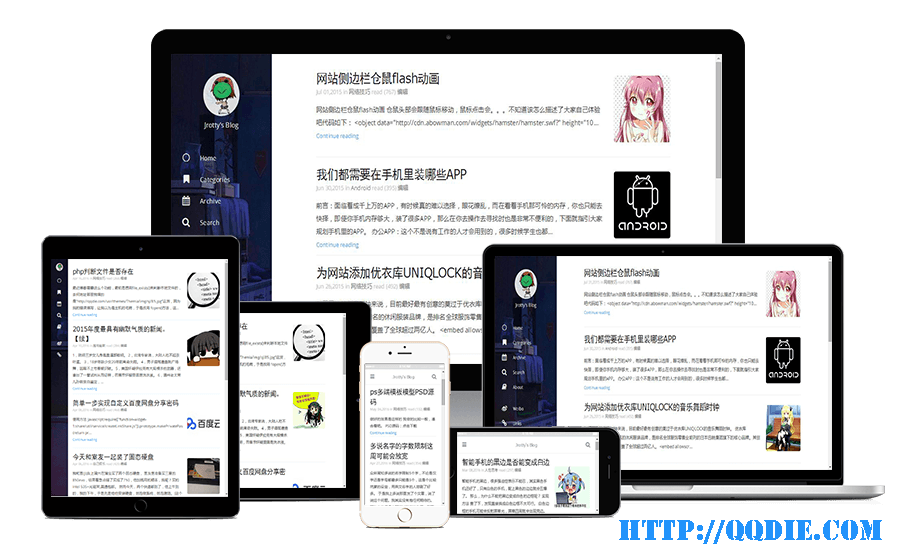
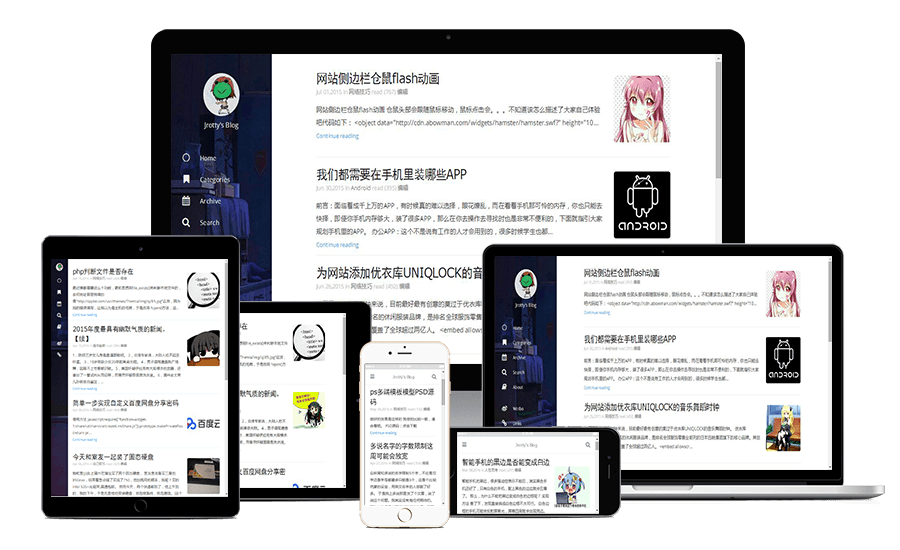
3.8.1
1，删除或更换所有旧域名信息
2，文章二维码接口更换
3，主题设置建站日期由手写改为点选

Changed region(s): [[0.6844, 0.9273, 0.9956, 0.9891]]

diff --git a/index.php b/index.php
@@ -1,11 +1,11 @@
 <?php
 /**
- *Te响应式主题 : Themia，一款个性化十分丰富，附加功能非常全面，自定义字段非常屌的华丽的响应式模板。
+ *Typecho响应式主题: Themia，一款个性化十分丰富，附加功能非常全面，自定义字段非常屌的华丽的响应式模板。
  * 
  * @package Themia
- * @author Jrotty
- * @version 3.8.0
- * @link 
+ * @author 泽泽社长
+ * @version 3.8.1
+ * @link https://github.com/jrotty/Themia-for-TE
  */
 ?>
   <?php $this->need('header.php'); ?>

diff --git a/post.php b/post.php
@@ -109,7 +109,7 @@ text-center<?php else: ?>text-left<?php endif; ?>">
         
     <div id="erweima" style="display: inline-block">
 
-<img id="erwei_qr" src="https://api.imjad.cn/qrcode?text=<?php $this->permalink() ?>&logo=https%3A%2F%2Fapi.imjad.cn%2Fqrcode%2Flogo.png&size=200&level=M&bgcolor=%23ffffff&fgcolor=%23000000"/>
+<img id="erwei_qr" src="https://api.qinor.cn/qrcode/?text=<?php $this->permalink() ?>"/>
  <p style=" text-indent: 0em; margin-left:-0em;">文章二维码</p>
  </div>
     </div>

diff --git a/footer.php b/footer.php
@@ -4,7 +4,7 @@
     <span class="copyrights"> 博客已萌萌哒运行<span id=span_dt_dt></span><br>
  &copy; 2016 <?php $this->options->title(); ?> /
  Power By <a  target="_blank"  href="http://typecho.org/">Typecho</a> 
-/ Designed By <a  target="_blank"  href="http://qqdie.com/">Jrotty</a>
+/ Designed By <a  target="_blank"  href="https://github.com/jrotty/Themia-for-TE">Jrotty</a>
 / Loading time <?php timer_stop($this) ?>s
 / <?php $this->options->tongji(); ?></span>
 </footer>
